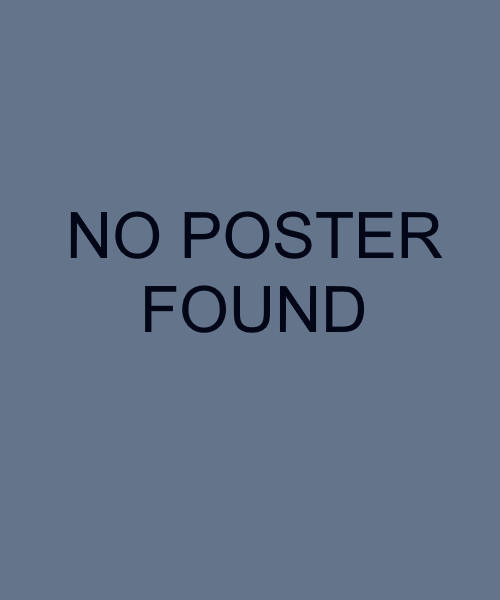
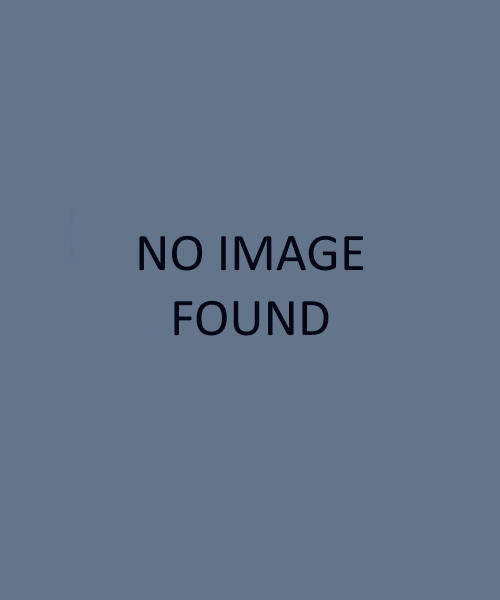
Updating temp-image, adding useFetchCredits and styling + adding ProfileCard.tsx component + styling + adding useFetchCredits.ts + styliing Media.tsx and ProfileCard.tsx + tweaking global styles

Changed region(s): [[0.12, 0.33, 0.9, 0.57], [0.87, 0.42, 0.9, 0.45], [0.48, 0.33, 0.51, 0.36]]

diff --git a/src/routes/Media.tsx b/src/routes/Media.tsx
@@ -1,24 +1,32 @@
-import { useParams } from "react-router-dom";
+import { Link, useParams } from "react-router-dom";
 import { useQuery } from "@tanstack/react-query";
 import useFetchMedia from "../hooks/useFetchMedia";
 import usePathname from "../hooks/usePathname";
+import useFetchCredits from "../hooks/useFetchCredits";
+import ProfileCard from "../components/ProfileCard";
 
 export default function Media() {
 
     const { mediaId } = useParams();
     const { mediaType } = usePathname();
     const { fetchMedia } = useFetchMedia();
+    const { fetchCredits } = useFetchCredits();
+
 
     if (!mediaId) return null;
 
-    const mediaData = useQuery({
+    const mediaData = useQuery<any>({
         queryKey: ['media-data', mediaId, mediaType],
         queryFn: () => fetchMedia(mediaId, mediaType),
+    })
+    const creditsData = useQuery({
+        queryKey: ['credits-data', mediaId, mediaType],
+        queryFn: () => fetchCredits(mediaId, mediaType),
     })
 
     if (mediaData.isLoading) return <p>Loading...</p>;
 
-    if (!mediaData.data) return null;
+    if (!mediaData.data || !creditsData.data) return null;
 
     return (
 
@@ -32,18 +40,44 @@ export default function Media() {
             <div className="media__details">
                 <h1>{mediaData.data.title}</h1>
 
-                <p>{mediaData.data.releaseYear}</p>
+                <p className="media__year">Release year: {mediaData.data.releaseYear}</p>
 
                 <ul className="media__genres">
                     {
                         mediaData.data.genres && mediaData.data.genres.map((genre: any) => (
-                            <li key={genre.id}>{genre.name}</li>
+                            <li key={genre.id}><Link to={`/${mediaType}/genre/${genre.id}`} key={genre.id}>{genre.name}</Link></li>
                         ))
                     }
                 </ul>
 
                 <p>{mediaData.data.description}</p>
+
+                <div className="media__directors">
+                    <h2>Directors</h2>
+
+                    {
+                        creditsData.data.directors &&
+                        <ul>
+                            {
+                                creditsData.data.directors.map((cast: any) => (
+                                    <ProfileCard key={cast.id} cast={cast} />
+                                ))
+                            }
+                        </ul>
+                    }
+                </div>
+                <div className="media__actors">
+                    <h2>Actors</h2>
+                    <ul>
+                        {
+                            creditsData.data.actors && creditsData.data.actors.map((cast: any) => (
+                                <ProfileCard key={cast.id} cast={cast} />
+                            ))
+                        }
+                    </ul>
+                </div>
             </div>
+
         </main>
 
     )

diff --git a/src/styling/routes/_media.scss b/src/styling/routes/_media.scss
@@ -2,10 +2,9 @@
 
 .media {
     display: flex;
+    flex-wrap: wrap;
 
     gap: $size-xl;
-
-    min-height: $size-8xl;
 
     background-repeat: no-repeat;
     background-position: center;
@@ -16,14 +15,77 @@
         flex-basis: 20%;
         flex-grow: 1;
         overflow: hidden;
-    }
-
-    img {
-        object-fit: contain;
+        img {
+            object-fit: contain;
+        }
     }
 
     &__details {
         flex-basis: 60%;
         flex-grow: 1;
+
+        h1 {
+            margin-bottom: $size-xs;
+        }
+    }
+
+    &__year {
+        font-weight: bold;
+        margin: 0;
+        padding: $size-xs $size-m;
+        border-radius: $size-m;
+
+        width: fit-content;
+
+        background-color: $color-primary-light;
+        color: $color-primary-darkest;
+    }
+
+    &__genres {
+        list-style: none;
+        padding: 0;
+        display: flex;
+
+        a {
+            text-decoration: none;
+            color: $color-primary-lighter;
+            font-weight: bold;
+            font-size: $size-m;
+            margin-right: $size-xs;
+
+            &:hover {
+                color: $color-secondary;
+            }
+
+            &::after {
+                content: " - ";
+            }
+        }
+
+        li:last-child {
+            a::after {
+                content: "";
+            }
+        }
+    }
+
+    &__directors,
+    &__actors {
+        flex-basis: 100%;
+
+        h2 {
+            font-size: $size-xl;
+        }
+        ul {
+            display: flex;
+            flex-wrap: wrap;
+            gap: $size-m;
+            list-style: none;
+            padding: 0;
+        }
+
+        .profile-card {
+            max-width: $size-5xl;
+        }
     }
 }

diff --git a/src/hooks/useFetchMedia.ts b/src/hooks/useFetchMedia.ts
@@ -1,17 +1,24 @@
-import useGlobalConstants from "../state/useGlobalConstants";
 import NO_IMAGE_FOUND from '../assets/no-poster-found.jpg';
+import useGlobalConstants from "../state/useGlobalConstants";
 
 export default function useFetchMedia() {
-    const { TMDB_API_KEY, TMDB_BASE_URL, TMDB_RESPONSE_LANG, TMDB_IMAGE_BASE_URL, TMDB_IMAGE_SIZE_BACKDROP, TMDB_IMAGE_SIZE_POSTER } = useGlobalConstants();
+    const {
+        TMDB_API_KEY,
+        TMDB_BASE_URL,
+        TMDB_RESPONSE_LANG,
+        TMDB_IMAGE_BASE_URL,
+        TMDB_IMAGE_SIZE_BACKDROP,
+        TMDB_IMAGE_SIZE_POSTER
+    } = useGlobalConstants();
 
     const fetchMedia = async (mediaId: string, mediaType: string) => {
 
         if (!mediaType) return null;
 
-        try {
-            const type = mediaType === 'movies' ? 'movie' : 'tv';
+        const type = mediaType === 'movies' ? 'movie' : 'tv';
 
-            const response = await fetch(`${TMDB_BASE_URL}/${type}/${mediaId}${TMDB_API_KEY}&language=${TMDB_RESPONSE_LANG}`);
+        try {
+            const response = await fetch(`${TMDB_BASE_URL}/${type}/${mediaId}?api_key=${TMDB_API_KEY}&language=${TMDB_RESPONSE_LANG}`);
 
             const data = await response.json();
 
@@ -35,7 +42,7 @@ export default function useFetchMedia() {
             };
         } catch (error) {
             console.error(error);
-            return null;
+            return error;
         }
     };
 

diff --git a/src/hooks/useFetchCredits.ts b/src/hooks/useFetchCredits.ts
@@ -1,0 +1,48 @@
+import useGlobalConstants from "../state/useGlobalConstants";
+
+export default function useFetchCredits() {
+    const {
+        TMDB_API_KEY,
+        TMDB_BASE_URL,
+    } = useGlobalConstants();
+
+    const fetchCredits = async (mediaId: string, mediaType: string) => {
+
+        if (!mediaType) return null;
+
+        // Correct the media type
+        const type = mediaType === 'movies' ? 'movie' : 'tv';
+
+        try {
+
+            // Ensure the API key is appended correctly as a query parameter
+            const response = await fetch(`${TMDB_BASE_URL}/${type}/${mediaId}/credits?api_key=${TMDB_API_KEY}`);
+
+            // Check for non-OK response
+            if (!response.ok) {
+                throw new Error(`Error: ${response.status}`);
+            }
+
+            const data = await response.json();
+
+            if (!data) {
+                throw new Error("No data returned from API");
+            }
+
+            return {
+                actors: [...new Set(data.cast.filter((actor: any) => actor.known_for_department === "Acting"))],
+
+                directors: [...new Set(data.crew.filter((director: any) => director.job === "Director"))],
+
+            };
+
+        } catch (error) {
+            console.error("Error fetching credits:", error);
+            return null;
+        }
+    };
+
+    return {
+        fetchCredits,
+    };
+}

diff --git a/src/components/ProfileCard.tsx b/src/components/ProfileCard.tsx
@@ -1,0 +1,19 @@
+import NO_IMAGE_FOUND from '../assets/no-poster-found.jpg';
+import useGlobalConstants from '../state/useGlobalConstants';
+
+export default function ProfileCard({ cast }: any) {
+
+    const { TMDB_IMAGE_BASE_URL, TMDB_IMAGE_SIZE_THUMBNAIL } = useGlobalConstants();
+
+
+    return (
+        <li className='profile-card'>
+            <img src={cast.profile_path ? TMDB_IMAGE_BASE_URL + TMDB_IMAGE_SIZE_THUMBNAIL + cast.profile_path : NO_IMAGE_FOUND} alt={cast.name} />
+            <p>{cast.name}</p>
+            {
+                cast.character &&
+                <p>({cast.character})</p>
+            }
+        </li>
+    )
+}

diff --git a/src/hooks/useFetchDashboard.ts b/src/hooks/useFetchDashboard.ts
@@ -53,7 +53,7 @@ export default function useFetchDashboard() {
     const fetchDashboardData = async (genreId: number, genreName: string, type: "movie" | "tv") => {
 
         try {
-            const response = await fetch(`${TMDB_BASE_URL}/discover/${type}${TMDB_API_KEY}${TMDB_RESPONSE_LANG}&with_genres=${genreId}&include_adult=false&sort_by=popularity&page=1`);
+            const response = await fetch(`${TMDB_BASE_URL}/discover/${type}?api_key=${TMDB_API_KEY}${TMDB_RESPONSE_LANG}&with_genres=${genreId}&include_adult=false&sort_by=popularity&page=1`);
 
             const data = await response.json();
 

diff --git a/src/hooks/useFetchGenreData.ts b/src/hooks/useFetchGenreData.ts
@@ -16,7 +16,7 @@ export default function useFetchGenreData() {
 
             // Create fetch promises for each page
             const requests = pages.map(page =>
-                fetch(`${TMDB_BASE_URL}/discover/${type}${TMDB_API_KEY}&with_genres=${genreId}&language=${TMDB_RESPONSE_LANG}&page=${page}`)
+                fetch(`${TMDB_BASE_URL}/discover/${type}?api_key=${TMDB_API_KEY}&with_genres=${genreId}&language=${TMDB_RESPONSE_LANG}&page=${page}`)
             );
 
             // Wait for all fetch requests to complete

diff --git a/src/hooks/useFetchGenres.ts b/src/hooks/useFetchGenres.ts
@@ -31,7 +31,7 @@ export default function useFetchGenres() {
 
     const fetchGenres = async (type: "movie" | "tv") => {
         try {
-            const response = await fetch(`${TMDB_BASE_URL}/genre/${type}/list${TMDB_API_KEY}`);
+            const response = await fetch(`${TMDB_BASE_URL}/genre/${type}/list?api_key=${TMDB_API_KEY}`);
 
             const data = await response.json();
 

diff --git a/src/state/useGlobalConstants.ts b/src/state/useGlobalConstants.ts
@@ -1,7 +1,7 @@
 import { create } from "zustand";
 
 const useGlobalConstants = create(() => ({
-    TMDB_API_KEY: `?api_key=${import.meta.env.VITE_TMDB_API_KEY}`,
+    TMDB_API_KEY: `${import.meta.env.VITE_TMDB_API_KEY}`,
     TMDB_BASE_URL: 'https://api.themoviedb.org/3',
     TMDB_RESPONSE_LANG: `&language=en-US`,
 

diff --git a/src/styling/_global.scss b/src/styling/_global.scss
@@ -8,6 +8,7 @@ body {
 
     font-family: sans-serif;
     letter-spacing: 0.5px;
+    line-height: 1.5;
 }
 
 #root {
@@ -34,6 +35,7 @@ h4,
 h5,
 h6 {
     margin: 0;
+    line-height: 1.2;
 }
 
 h1 {

diff --git a/src/styling/main.scss b/src/styling/main.scss
@@ -13,3 +13,4 @@
 @use "./components/footer.scss";
 @use "./components/genreMenu.scss";
 @use "./components/mediaGrid.scss";
+@use "./components/profileCard.scss";

diff --git a/src/styling/components/_profileCard.scss b/src/styling/components/_profileCard.scss
@@ -1,0 +1,6 @@
+.profile-card {
+    img {
+        aspect-ratio: 2 / 3;
+        object-fit: cover;
+    }
+}
